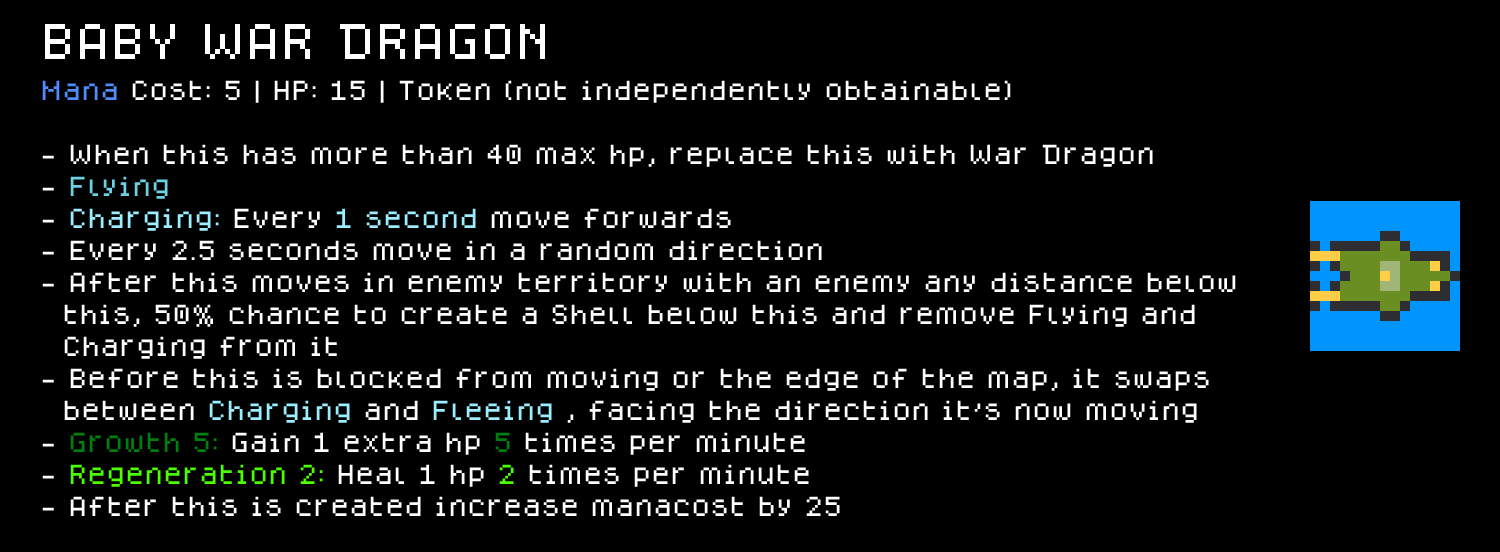
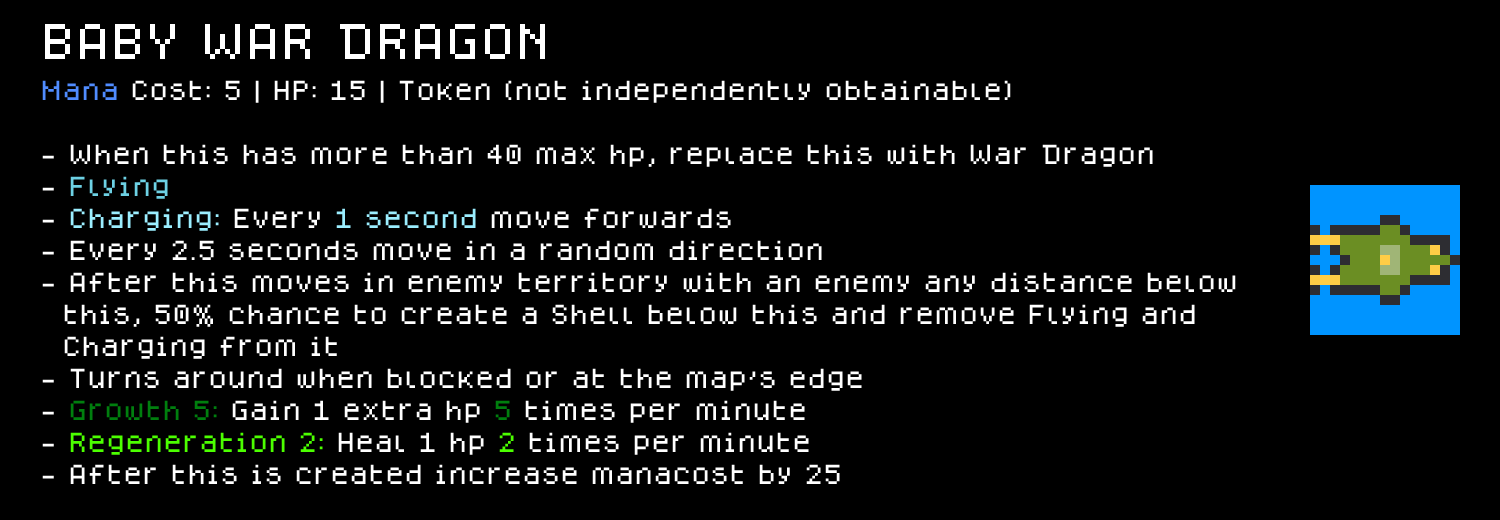
quality Points added  + Wording fixes

diff --git a/.claude/skills/cube-chaos-scripting/references/perk-economy.md b/.claude/skills/cube-chaos-scripting/references/perk-economy.md
@@ -19,6 +19,8 @@ An early DJ-mod pass put `Value: 40/60` on eight `BelongsTo: DJ` reward perks by
 
 An upgrade perk is a full standalone redefinition of the base perk's `Ability:`/`Description:` (not a diff/patch) plus a trailing `IsUpgradeFrom: <BasePerkName> <N>` field. **What `<N>` means (engine-verified, user-corrected):** the Forge scenario (`Extra_Mechanics/Reward_Scenarios.c.txt:47`) prices upgrades as `Subtraction ValueOfPerk UpgradeOfPerk Target ValueOfPerk Target` — **upgrade cost = upgrade's value − base's value** (minus a one-time 20g first-forge discount). The written `<N>` is best understood as **that difference itself, i.e. the gold price at the forge** (with `ValueOfPerk(upgrade)` = base's Value + N): strictly-better upgrades exist with N *below* their base's Value (`The_Names` Value 100 → `The_Names_Mk2` N=50; `Programmer_Manufactory` Value 50 → `Accelerated_...` N=40), which would produce nonsensical negative forge prices if N were the upgrade's absolute value. Since class/species reward perks have no Value at all, for them N is simply the forge price outright — there's no base Value to subtract. **Pricing ladder** (from all 629 base-game upgrades — N clusters hard at 40 (89×), 60 (258×), 80 (124×), 100 (54×), 120 (33×)): 40 = minor tweak, 60 = standard upgrade, 80–120 = major scope/power jump, 200+ = rare deliberate extremes. Upgrade perks never carry their own `Value:` line (0/629), usually omit `BelongsTo:` (only 36/634 keep it — legal, doesn't double-count the base's reward-perk pool), and **don't strictly need a sprite of their own** — confirmed by `UpgradeSpeciesPerks.c.txt` having zero corresponding `Sprites/*.c.png` despite ~20 upgrade perks; with no sheet, they fall back to reusing the base perk's icon. But a dedicated sprite is a real, supported option, not just a fallback-only situation — the Steam Workshop "Dinosaurs!" mod ships real unique art for all 11 of its upgrade perks (`cube-chaos-audit` finding, 2026-07-29). See `cube-chaos-sprite-art`'s upgrade-perk section for which to do for new mod content going forward.
 
+**Design quality: an upgrade should carry a mechanical twist, not just a bigger number, whenever one is reasonably available.** A pure "+X to the same stat" upgrade (more damage, more hp, bigger radius, same effect shape) is the easy default but tends to read as stale next to real base-game upgrades, which usually change *something structural* — a new trigger condition, an added secondary effect, a different target-selection rule — on top of or instead of a raw number bump. Before locking in a new `IsUpgradeFrom:` perk (or when auditing an old one), check whether a twist is available; if the base effect genuinely has no natural twist (a plain economy/stat-buff cube with nothing else to hook), a stat-only upgrade is a legitimate deliberate choice, but it should be a choice, not the unexamined default. Raise this explicitly in the design preview so the user can weigh in either way.
+
 **`BalanceCap: N`** is a separate optional header field, undocumented in `ModdingInfo.txt`/`ModdingExplanation.txt`, used across every perk category (Curses, Blights, Boons, regular reward Perks, CubeUpgrades). Reverse-engineered by correlating `Value:` against `BalanceCap:` across all 130+ real curses in `Main/Curses.c.txt`: there's a strong, consistent **inverse** relationship — powerful curses (`Value: -400`/`-300`/`-200`) mostly sit at `BalanceCap: 0–15`, while weak curses (`Value: -50`) range up to `BalanceCap: 100–1000`. Reads as a soft cap on how many times the reward system will offer/let a specific perk stack within one run — weak effects are allowed to pile up, strong/run-defining ones are capped low so they can't snowball. Not confirmed against engine source, just a strong empirical pattern — when picking a value for a new perk, grep real perks at the same `Value:` tier and match their typical `BalanceCap` rather than guessing (e.g. real `-200`-value curses cluster around `BalanceCap: 10`, real `-100`-value curses also cluster around `10`).
 
 ## Curse-specific `PERK:` conventions
@@ -61,3 +63,12 @@ Confirmed via all 13 real entries in `Main/CubeUpgrades.c.txt` plus the Forge sc
 - If a stacked perk's `Ability:` creates a cube at a shared position derived from the trigger event itself (e.g. `CreateCubeOnPosition ... PositionOfCube Victim` inside `AfterACubeDies`), only the first copy to successfully fire actually places it — a second copy's creation attempt targets the now-occupied tile. This is inferred from convention rather than independently load-tested: every other create-at-a-position pattern in this codebase explicitly `Exile`s the occupant first (see `references/death-fusion-reactive.md`'s "Fusing/removing two cubes into one" section), implying create-on-an-occupied-tile isn't a normal supported flow.
 - **"Each copy affects a different cube" (1st copy → 1st cube, 2nd copy → 2nd cube, etc.) needs no counter at all** — since copies fire sequentially against the same event (no dedup/merge, per above) and there's no `ThisPerk` self-reference to compute "which copy am I," the idiom is: search with `TheFirstCubeInHandOfFactionWhich FactionOfThis <predicate excluding cubes already touched>`, then act on the found cube in a way that also makes it fail that same predicate going forward, so the *next* copy's identical search naturally skips it and lands on the next-first untouched cube. Real base-game precedent: `Main/Perks.c.txt`'s `Bird_Feather` (`TargetCube TheFirstCubeInHandOfFactionWhich FactionOfThis Not HasAbilityWithName Test Flying GainAbility Flying`) — stacking copies each give Flying to the next flightless cube in hand order, using the granted ability itself as both the effect and the exclusion flag. **If the effect instead exiles/replaces the found cube** (rather than tagging it in place), no marker ability is even needed — the exiled original is simply gone from hand, so it can never be found again, and any newly-added replacement cubes get appended after the original hand slots, so subsequent copies still walk through the untouched originals first. Real DJ-mod usage, `Inspiration` (`DJ/DJ_Perks.c.txt`): `TargetCube TheFirstCubeInHandOfFactionWhich FactionOfThis Not HasLimitedUses Test` finds the first hand cube without the `Limited` status (reusing the base game's own `HasLimitedUses`/`RegeneratingUsesX` predicate as a ready-made "unlimited cube" filter, no custom tag needed), then `Both Exile XTimes DoubleConstant 3 AddCubeToHandOfFaction CopyWithAction Target NoManaCost FactionOfThis` exiles it and adds 3 fresh 0-mana copies. Went through two revisions before landing here: v1 tagged the original cube with a custom marker ability (worked, but needed inventing a marker); v2 tried granting `GainRegeneratingUsesX` (a genuine "limited uses" ability) to fake a flat 3-charge item, which required either `SetVariableOnCube` (zero precedent anywhere in the codebase, high risk) or accepted the built-in "always starts at 1, N = regen-interval-in-minutes" semantics — abandoned once the user pointed out **exiling the original and creating all N copies together in the same `CopyWithAction` call is strictly more robust for hand-UI stacking**, since all N instances go through byte-identical construction, whereas "keep the original, `CopyWithAction` it N-1 more times" risks the original silently diverging from its clones (e.g. different internal ability-grant timing) and not stacking visually even though they're mechanically the same.
 - **Apply a modifier to freshly-created copies via `CopyWithAction`'s own trailing `Action` parameter, not by modifying the source cube first.** `CopyWithAction CUBE Action` runs `Action` on the *copy*, not the source — so `AddCubeToHandOfFaction CopyWithAction Target NoManaCost FactionOfThis` makes each new copy free without ever touching `Target`'s own mana cost. This composes cleanly with `XTimes N (...)` for "add N modified copies" in one line, and avoids the ordering hazard of "modify original, then copy it" (where forgetting to modify-before-copy silently ships unmodified copies).
+
+## Design quality: does stacking actually add value, for both perks and cube abilities
+
+A complex, stateful effect does **not** need to support stacking cleanly — that's a legitimate design choice, not a gap. But before finalizing a new perk or ability (or when auditing an existing one), it's worth explicitly checking what 2+ copies/grants actually do, because the two failure modes are cheap to miss and often cheap to fix:
+
+- **Perk stacking** (owning multiple copies of the same non-unique `PERK:`) always independently re-triggers per the mechanism above — the open question is whether that re-trigger is *interesting* or degenerates into something pointless/broken (e.g. two copies racing to create a cube on the same derived position, per the "shared position" bullet above) or invisible (a flat one-shot `ObtainAction:` effect where a 2nd copy changes nothing the player can perceive). If a cheap change — wrapping in `XTimes AmountOfPerksInInventoryWhich <predicate>`, or the exiled-hand-slot idiom above — would turn a degenerate/no-op stack into something that scales meaningfully, prefer that over shipping it as-is.
+- **Cube ability stacking** is a separate question from perk stacking: whether granting the *same ability* to one cube more than once (from two different sources, or the same source twice) actually compounds. Only a `STACKING`-parameterized constructor (`GrowthX STACKING`, used as `GrowthX 1`) genuinely accumulates a count; a bare/flag ability granted twice is typically a no-op re-grant (see `references/gotchas-grepped.md`'s "grant a flag-style ability N times" entry — that's exactly why `XTimes DOUBLE (GainAbility <Name>)` exists as the workaround for flag abilities, since `GainAbilityStacking` only makes sense on the STACKING kind). When designing a new ability that might realistically be granted more than once to the same cube, check which kind it is and whether a non-stacking flag ability would read as a bug to the player ("I got Flying twice, nothing changed") — if so, either make peace with that being fine (redundant grants are harmless, just not additive) or design it as a STACKING constructor instead if compounding would be more fun.
+
+This is a judgment call, not a hard requirement — flag it in the design preview (alongside the upgrade-mechanical-twist check above) rather than silently deciding either way.

diff --git a/.claude/skills/cube-chaos-audit/SKILL.md b/.claude/skills/cube-chaos-audit/SKILL.md
@@ -32,8 +32,9 @@ same checks. Every row in the checklist below carries a **Scope**:
   made a different, equally valid choice on purpose — flagging it as if it were a bug would be noise, not
   a finding. **Checked automatically for our own mods; asked about via questionnaire for anyone else's.**
 
-The four house-convention buckets, asked about only when auditing a foreign mod: **Rule-text wording style**,
-**Balance curve**, **Sprite authoring & polish conventions**, **File/folder organization conventions**.
+The five house-convention buckets, asked about only when auditing a foreign mod: **Rule-text wording style**,
+**Balance curve**, **Sprite authoring & polish conventions**, **File/folder organization conventions**,
+**Design depth (stacking value / upgrade mechanical variety)**.
 
 ## Research protocol — same discipline, one extra step
 
@@ -56,6 +57,7 @@ This keeps the checklist growing at the same rate the domain skills do, without 
      - *Balance curve* — "Check this mod's mana/hp/IDENT stats and perk Value:/BalanceCap: pricing against our own empirical ranges? A foreign mod may target a different power curve on purpose."
      - *Sprite authoring & polish conventions* — "Check this mod's sprites against our own authoring-guide markers and shading/color-count polish preference? (Real base-game border patterns and sheet math are checked regardless — this is just our extra house polish bar.)"
      - *File/folder organization conventions* — "Check this mod's file layout against our own per-category-file convention (dedicated UpgradePerks file, one file per perk category, Workshop Tag: hygiene)?"
+     - *Design depth* — "Flag perks/abilities whose stacking behavior looks degenerate or no-op where a cheap fix would add value, and upgrade perks that are a plain stat bump where a mechanical twist looks available? This is a design-taste call, not a correctness bug — a foreign mod's creator may have made either choice on purpose."
    - Say up front, briefly, what ended up in scope either way (which buckets, plus the always-on Universal rows) before scanning.
 3. **Detect.** For each in-scope checklist row, run its detection method (`references/detection-recipes.md` has the concrete grep/script for every row — load only the recipes for the categories actually in scope). Grep-based checks are cheap to run for everything; the judgment-based ones (rule-text-vs-ability accuracy, border-pixel-diff, balance-outlier lookup) need an actual read or a small script per hit.
 4. **Filter false positives before reporting anything.** A raw grep hit is a candidate, not a finding — read the surrounding chain/context and cross-check it against the owning skill's exact rule (e.g. an `East`/`West` grep hit inside a cube's own *name* isn't a direction; a `TargetCube CubeOfPosition` hit that's a genuine name-guarded swap handler isn't a bug — see `cube-chaos-scripting/references/creation-and-copying.md`). Don't report noise.
@@ -87,6 +89,8 @@ see "Running an audit" step 2).
 | A renamed `PERK:`/`CUBE:` didn't leave a stale literal-string self-reference (`StringConstant <OldName>`, `CubeHasName ... <OldName>`) | `references/perk-economy.md` — perk self-reference section | Bug | Universal |
 | `IsUpgradeFrom:` perks live in their own `<ModPrefix>_UpgradePerks.c.txt`, not mixed into the regular perks file (that file's sprite sheet, if any, is a real supported option, not required) | `cube-chaos-sprite-art` — upgrade-perk section | Bug | File/folder organization |
 | Each perk category (Curse/Blight/Boon/Consumable/Golden/Neutral/CubeUpgrade/Terrain) has its own dedicated `.c.txt` + sprite sheet, never mixed into a generic `Perks.c.txt` | `cube-chaos-mod-setup` | Convention | File/folder organization |
+| An `IsUpgradeFrom:` perk is a plain stat bump on its base perk (same effect shape, only a bigger number) where a mechanical twist looks reasonably available and wasn't considered | `references/perk-economy.md` — "Design quality: an upgrade should carry a mechanical twist" | Design | Design depth |
+| A perk's stacking behavior (2+ owned copies) or an ability's re-grant behavior (same ability granted twice to one cube) is degenerate/no-op where a cheap fix (XTimes-by-count, STACKING constructor) would add real value | `references/perk-economy.md` — "Design quality: does stacking actually add value" | Design | Design depth |
 
 ### Rule text & wording — `cube-chaos-rule-text`
 
@@ -134,5 +138,5 @@ see "Running an audit" step 2).
 ## Notes for extending this checklist
 
 - A new row always names the owning skill/section, never restates the rule. If a check doesn't cleanly belong to one existing domain skill, that's a signal the underlying convention itself hasn't been written down anywhere yet — go write it into the right domain skill first, then add the row here.
-- A new row also always gets a **Scope**. Default test: would this be wrong/broken for *any* Cube Chaos mod, regardless of who wrote it or what style they were going for (engine behavior, a base-game-confirmed rendering fact, a genuine silent-failure shape)? If yes, `Universal`. If the "correct" answer only holds because it's how *this repo* chose to write things — and a different, equally functional mod could reasonably disagree — it's a house-convention bucket (`Rule-text wording style` / `Balance curve` / `Sprite authoring & polish` / `File/folder organization`), reusing an existing bucket name rather than inventing a fifth without updating the questionnaire in "Running an audit" step 2 to match.
+- A new row also always gets a **Scope**. Default test: would this be wrong/broken for *any* Cube Chaos mod, regardless of who wrote it or what style they were going for (engine behavior, a base-game-confirmed rendering fact, a genuine silent-failure shape)? If yes, `Universal`. If the "correct" answer only holds because it's how *this repo* chose to write things — and a different, equally functional mod could reasonably disagree — it's a house-convention bucket (`Rule-text wording style` / `Balance curve` / `Sprite authoring & polish` / `File/folder organization` / `Design depth`), reusing an existing bucket name rather than inventing a new one without updating the questionnaire in "Running an audit" step 2 to match.
 - If a category above starts accumulating enough rows to feel unwieldy on its own, split its detection recipes further inside `references/detection-recipes.md` (per-category files) rather than growing this table's Tier/Check columns — the same "content shape, not line count" split rule every other skill here follows.

diff --git a/.claude/skills/cube-chaos-scripting/references/targeting-movement-board.md b/.claude/skills/cube-chaos-scripting/references/targeting-movement-board.md
@@ -108,6 +108,14 @@ This is not a rare mistake — a real audit of both mods in this repo (grep `\bE
 
 **Whenever writing a new cube/perk that creates or targets something to one side, default to `Forwards`/`Backwards` and only reach for a literal `East`/`West` if there's a genuine reason the effect must be map-absolute** (rare — no real example of this need was found anywhere in either mod). When reviewing/debugging an existing sideways effect that seems to misbehave only for one player, grep for `East`/`West` in that ability chain before looking anywhere else.
 
+## Simple forward-patrol with no directional sprite: use the built-in `RoamingX`, don't reach for the Charge/Flee-swap pattern below
+
+The base game's own `Crow` (`Main/3GeneralCubes.c.txt:4836-4850`) does "move forward, turn around when blocked" with a single line, `Ability: RoamingX 120` — no custom `Ability:` chain at all. `RoamingX TIME` (`ModdingInfo.txt:213`) is a self-contained built-in whose tooltip text is already the idiomatic short phrasing: `"Every CODE 1 move forwards, turn around if there's no space"`. Reach for this on any new flying/patrol cube that doesn't need a directional sprite flip — it's one ability, one tooltip line, zero custom code.
+
+**`RoamingX` is an opaque built-in with no exposed hook for a sprite-facing flip**, so it's the wrong tool if the cube needs to visually mirror its sprite when it turns around (there's no ability-presence flag or trigger to key a `SetSpriteToCube` off, unlike the Charge/Flee pattern below where `HasAbilityWithName Caster ChargeEveryX` doubles as exactly that flag). For that case, use the Charge/Flee-swap pattern below instead. Real precedent both ways in the General mod: `Bomber`/`Drop_Helicopter`/`Baby_War_Dragon` all have real mirrored `_West` sprite variants and use the Charge/Flee-swap; a cube with a single non-directional animated sprite (like `Crow`'s `Animation: Fly CLOCK`) should just use `RoamingX`.
+
+When writing the `Text:` for a custom reversal ability that (unlike `RoamingX`) also needs to mention a real behavior `RoamingX` doesn't have (e.g. the sprite flip), keep it just as short — borrow `RoamingX`'s own phrasing style rather than restating which named sub-ability is currently active. Real example, shortened 2026-07-31 from a longer draft: `Text: Turns around when blocked or at the map's edge End` (the built-in `ChargeEveryX`/`FleeEveryX` tooltip lines already say "move forwards"/"move backwards" on their own, so the custom line doesn't need to repeat that).
+
 ## Reverse-movement patrol: swapping `ChargeEveryX` for `FleeEveryX`
 
 `FleeEveryX TIME` (built-in, `Base_Core/1Compounds.c.txt`) is the real "move backwards every X" ability — the mirror image of `ChargeEveryX`. For a cube that should patrol back and forth (advance until some condition, then retreat, then re-advance), swap the two abilities in and out rather than granting both at once (having both active simultaneously fires opposing per-tick moves and the cube visually jitters in place instead of travelling).

diff --git a/.claude/skills/cube-chaos-audit/references/detection-recipes.md b/.claude/skills/cube-chaos-audit/references/detection-recipes.md
@@ -76,3 +76,10 @@ Run the equivalent check for PERK tiles at `T=27`, `GUIDE=(255,0,220)`, then lay
 - **Color-count check**: for each finished tile, count distinct non-background, non-guide colors; flag anything at 1–2 (below the ~3–5 convention).
 - **Sheet math check**: for each `.c.png`, confirm `width` and `height` are each an exact multiple of `tile_size` (a square `ceil(sqrt(n))` grid is one valid layout, not a requirement — a single-row strip or any other rectangle is equally valid, confirmed via the Dinosaurs! Workshop mod's real, functional non-square sheets) and that `(width / tile_size) * (height / tile_size) >= block count in the matching .txt`; confirm the basename matches its `.txt` file and doesn't collide with any already-loaded base-game or other-mod package name.
 - **Tag: check**: read the mod's `Description` file's `Tag:` lines against the actual content categories present (grep for `BelongsTo: Curse/Blight/Boon/Terrain/Consumable/...` etc. across the mod's own files) and flag any category present in content but missing from `Tag:`, or vice versa.
+
+## Design depth
+
+These are judgment calls, not greps — read each candidate's actual `Ability:`/`SpecialAction:` chain before deciding it's a finding, and hold the bar loosely (a "no twist available" or "stacking deliberately left flat" call is a legitimate answer, not a miss):
+
+- **Upgrade mechanical-twist check**: for every `IsUpgradeFrom:` perk, diff its `Ability:`/`SpecialAction:` chain against the base perk it upgrades. If the only difference is a bigger literal number in an otherwise-identical chain shape, check whether a natural twist (new trigger branch, secondary effect, changed target selection) was available and skipped — if the effect genuinely has nothing to hook a twist onto (a plain hp/mana/economy buff), that's a legitimate stat-only upgrade, not a finding.
+- **Stacking-value check**: for every non-`Unique` `PERK:`, read what 2+ owned copies actually do (does the re-trigger compound, race on a shared position/resource, or produce no perceptible difference?). For every ability that could plausibly be granted twice to the same cube (from two different sources, or the same source firing more than once), check whether it's a bare/flag ability (redundant regrant, harmless but flat) where a `STACKING`-parameterized version would read as more satisfying, versus one where flat redundancy is fine because a player would never expect it to compound (e.g. a one-time cosmetic tag). Flag only the cases where a cheap fix is plausible and the current behavior would plausibly read as a bug or missed opportunity to a player — not every non-stacking effect.

diff --git a/.claude/skills/cube-chaos-orchestrator/workflows/content-perk-family.md b/.claude/skills/cube-chaos-orchestrator/workflows/content-perk-family.md
@@ -37,9 +37,13 @@ Full Blight/Boon/Nightmare conventions (ScalingPow:, Requirement: patterns, Invi
 
 **A fresh `IsUpgradeFrom:` upgrade perk goes in its own `<ModPrefix>_UpgradePerks.c.txt`, never appended into the same file as the perk it upgrades.** This matches the base game's own convention (upgrades always live in a separate, sprite-less file — see `cube-chaos-sprite-art`'s upgrade-perk section) and avoids ever having to reason about blank sprite-sheet slots for the regular perks file at all. If the perk being upgraded still lives in the mixed-file style from before this convention was adopted, that's a sign to split it out now rather than adding one more upgrade to the pile.
 
+**An upgrade perk should carry a mechanical twist, not just a bigger number, whenever one is reasonably available** — see `cube-chaos-scripting`'s perk-economy "Design quality: an upgrade should carry a mechanical twist" note. A plain stat-only upgrade is a legitimate deliberate call for effects with no natural twist, but it shouldn't be the unexamined default; decide it explicitly and say so in the preview below.
+
+**Also check whether the new perk/ability's stacking behavior (owning 2+ copies, or a cube being granted the same ability twice) is worth designing for** — see the same skill's "Design quality: does stacking actually add value" section. Complex effects don't need to stack cleanly, but a cheap fix for a degenerate/no-op stack is worth taking when one exists.
+
 ## Preview-and-approve gate (before the Sequence below)
 
-Before writing any file, run the orchestrator's **Step C preview-and-approve gate**: print the theoretical spec (category + `Value:`/`BalanceCap:` + the real trigger chain + the `Description:` *derived from that chain*, sprite/border as concept only) and get the user's explicit OK. Iterate on the printed table — not on files — until they approve. Sprites and the Sequence below happen only after that OK.
+Before writing any file, run the orchestrator's **Step C preview-and-approve gate**: print the theoretical spec (category + `Value:`/`BalanceCap:` + the real trigger chain + the `Description:` *derived from that chain*, sprite/border as concept only), plus a one-line note on the two design-quality checks above (mechanical twist for upgrades; stacking value), and get the user's explicit OK. Iterate on the printed table — not on files — until they approve. Sprites and the Sequence below happen only after that OK.
 
 ## Sequence
 
